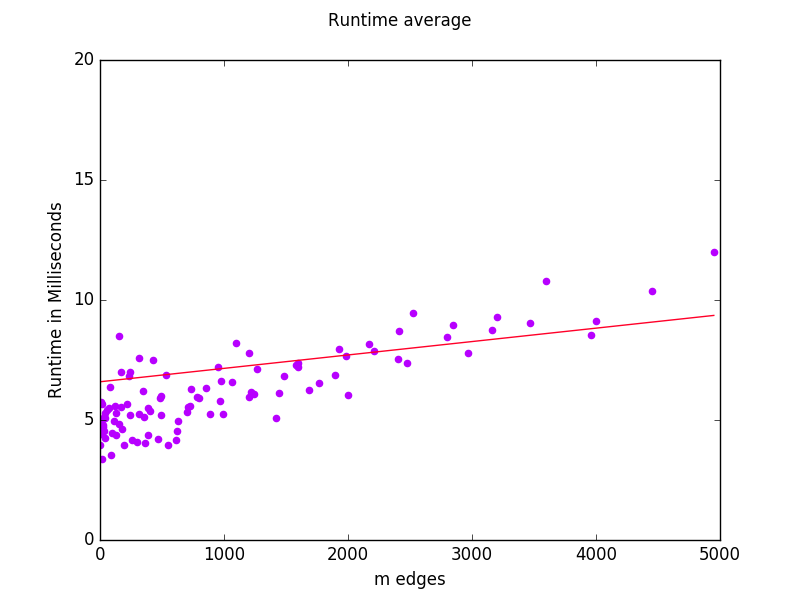
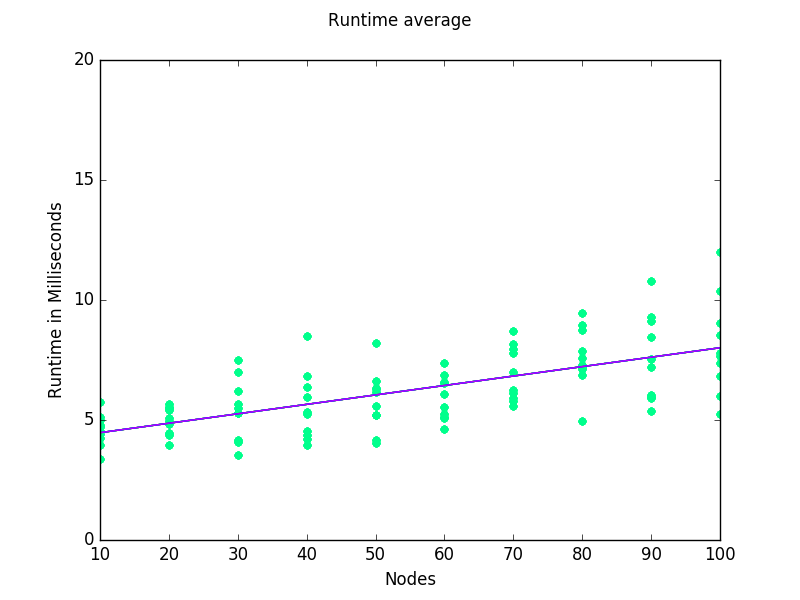
removed some bad data

diff --git a/plots/lab1_1_timeplot_i=7_greedy_nConstant.py b/plots/lab1_1_timeplot_i=7_greedy_nConstant.py
@@ -9,40 +9,41 @@ NUM_COLORS = 10
 def roundup(x):
     return int(math.ceil(x /10.0)) *10
 
-with open("lab1_1_summary_stats.txt") as input_file:
+with open("lab1_1_random_summary_stats.txt") as input_file:
     trials = input_file.read().splitlines()
 
 i = 0;
 
 time = [100]
-n = [100]
+m = [100]
 
-for x in range (0, 100):
+for x in range (0, 1200):
     iter = trials[x].split(" ")
-    time.append(float(iter[3]))
-    n.append(int(iter[0]))
+    if(int(iter[6]) == 7):
+        time.append(float(iter[3]))
+        m.append(int(iter[1]))
 
 cm = plt.get_cmap('gist_rainbow')
 fig = plt.figure(facecolor='white')
 ax = fig.add_subplot(111)
 ax.set_color_cycle([cm(1.*i/NUM_COLORS) for i in range(NUM_COLORS)])
-ax.set_xlim(10,100)
-ax.set_ylim(0,20)
+ax.set_xlim(10,5000)
+ax.set_ylim(0,max(time))
 
-
-n.pop(0)
+m.pop(0)
 time.pop(0)
-    
-for x in range (0, 10):
-    plt.scatter(n, time, color=(cm(1.*5/NUM_COLORS)))
-    ax.plot(np.unique(n), np.poly1d(np.polyfit(n, time, 1))(np.unique(n)))
+m.pop(99)
+time.pop(99)
 
-for x in range (0, 100):
-    print(str(n[x])+","+str(time[x]))
+for x in range (0, 10):
+    plt.scatter(m, time, color=(cm(1.*5/NUM_COLORS)))
+    ax.plot(np.unique(m), np.poly1d(np.polyfit(m, time, 1))(np.unique(m)))
+
+for x in range (0, 98):
+    print(str(m[x])+","+str(time[x]))
 
 plt.suptitle('Runtime average')
-plt.xlabel('Nodes')
+plt.xlabel('Edges')
 plt.ylabel('Runtime in Milliseconds')
 plt.legend(loc=2)
 plt.show()
-

diff --git a/plots/lab1_1_timeplot_i=7_greedy_mConstant.py b/plots/lab1_1_timeplot_i=7_greedy_mConstant.py
@@ -9,7 +9,7 @@ NUM_COLORS = 10
 def roundup(x):
     return int(math.ceil(x /10.0)) *10
 
-with open("lab1_1_summary_stats.txt") as input_file:
+with open("lab1_1_random_summary_stats.txt") as input_file:
     trials = input_file.read().splitlines()
 
 i = 0;
@@ -17,22 +17,23 @@ i = 0;
 time = [100]
 n = [100]
 
-for x in range (0, 100):
+for x in range (0, 1200):
     iter = trials[x].split(" ")
-    time.append(float(iter[3]))
-    n.append(int(iter[0]))
+    if(int(iter[6]) == 7):
+        time.append(float(iter[3]))
+        n.append(int(iter[0]))
 
 cm = plt.get_cmap('gist_rainbow')
 fig = plt.figure(facecolor='white')
 ax = fig.add_subplot(111)
 ax.set_color_cycle([cm(1.*i/NUM_COLORS) for i in range(NUM_COLORS)])
 ax.set_xlim(10,100)
-ax.set_ylim(0,20)
-
+ax.set_ylim(0,50)
 
 n.pop(0)
 time.pop(0)
-    
+
+
 for x in range (0, 10):
     plt.scatter(n, time, color=(cm(1.*5/NUM_COLORS)))
     ax.plot(np.unique(n), np.poly1d(np.polyfit(n, time, 1))(np.unique(n)))

diff --git a/plots/lab1_1_timeplot_nConstant.py b/plots/lab1_1_timeplot_nConstant.py
@@ -32,6 +32,9 @@ plt.scatter(m, time, color=(cm(1.*9/NUM_COLORS)))
 ax.plot(np.unique(m), np.poly1d(np.polyfit(m, time, 1))(np.unique(m)))
 
 
+m.pop(0)
+time.pop(0)
+
 for x in range(0,100):
     print(str(m[x])+","+str(time[x]))
 
